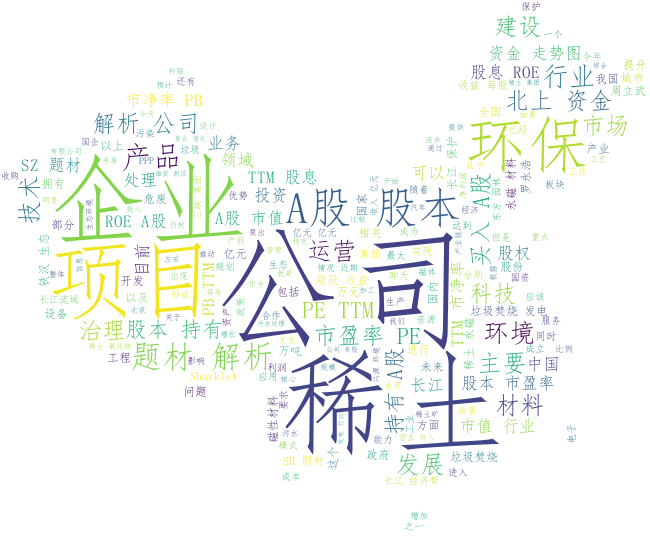
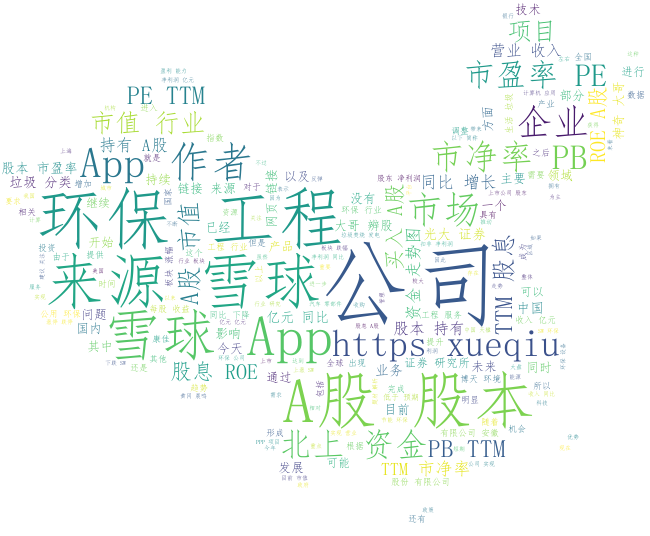
222

Changed region(s): [[0.0, 0.0, 1.0, 0.9851], [0.8615, 0.806, 0.8923, 0.8358]]

diff --git a/main.py b/main.py
@@ -24,10 +24,6 @@ headers = {
               'Hm_lpvt_1db88642e346389874251b5a1eded6e3=1575613105'
 }
 url = "https://xueqiu.com"
-param = {
-         'count': 10,
-         'page': 1
-         }
 
 
 def translate_to_chinese(string):
@@ -37,9 +33,27 @@ def translate_to_chinese(string):
     return result;
 
 
-def get_html_content(keyword):
+def get_article_count(keyword):
     # 填入关键字
-    param['q'] = keyword
+    parameter = {
+        'count': 10,
+        'page': 1,
+        'q': keyword
+    }
+    response = requests.get(url + "/statuses/search.json", params=parameter, headers=headers)
+    print(response)
+    # 获取链接数据
+    max_page = json.loads(response.text)['maxPage']
+    return max_page
+
+
+def get_html_content(keyword, page):
+    # 填入关键字
+    param = {
+        'count': 10,
+        'page': page,
+        'q': keyword
+    }
     response = requests.get(url + "/statuses/search.json", params=param, headers=headers)
     print(response)
     # 获取链接数据
@@ -83,9 +97,12 @@ def create_word_cloud():
 
 def main():
     keyword = input('What is your search keyword?\n')
-    total_page = get_html_content(keyword)
+    total_page = get_article_count(keyword)
+    # 清空文件内容
+    f = open('word.txt', "r+")
+    f.truncate()
     for i in range(total_page):
-        get_html_content(keyword)
+        get_html_content(keyword, i)
     create_word_cloud()
 
 
